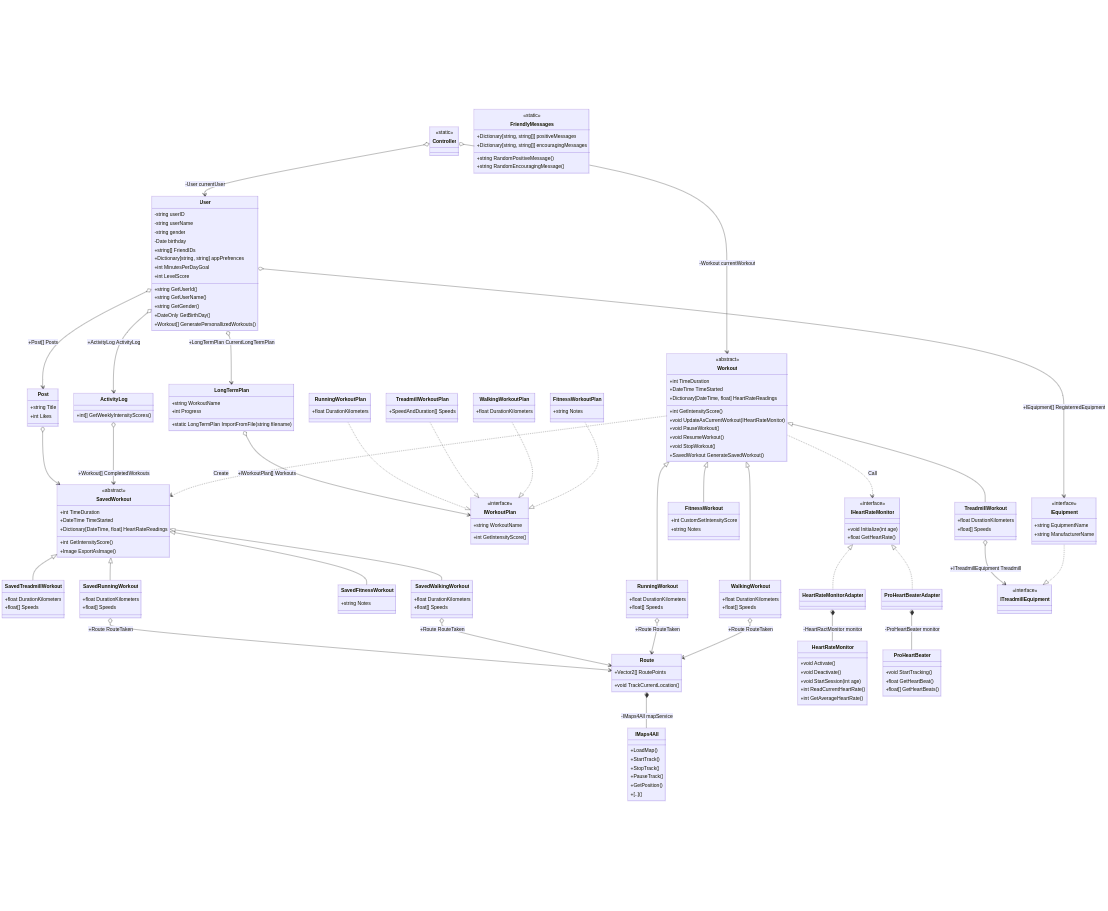
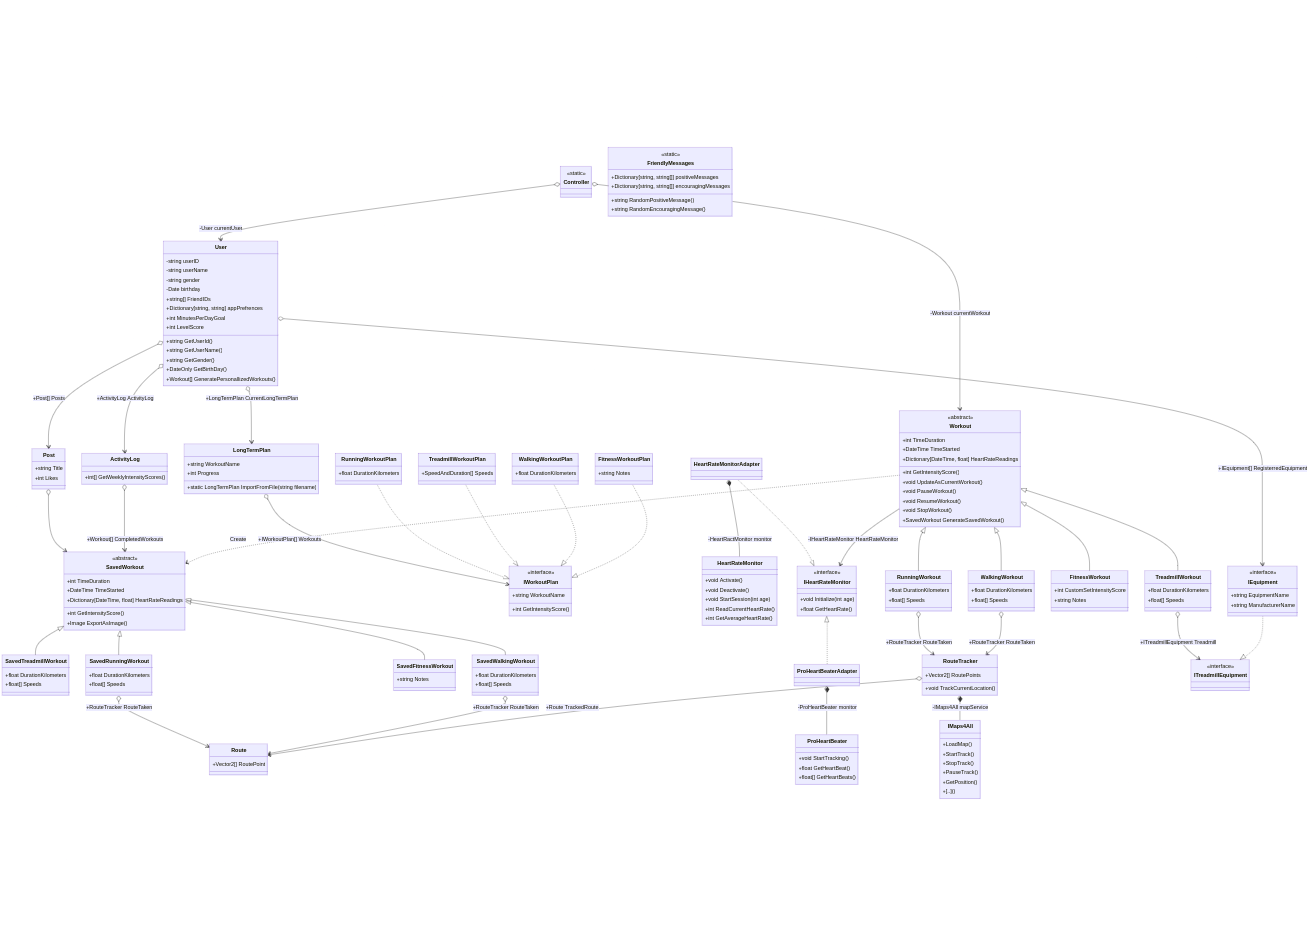
Last update hopefully

diff --git a/classDiagram.md b/classDiagram.md
@@ -61,7 +61,7 @@ SavedWorkout <|-- SavedFitnessWorkout
 
 SavedWorkout <|-- SavedRunningWorkout
 
-SavedRunningWorkout o--> Route : +Route RouteTaken
+SavedRunningWorkout o--> Route: +RouteTracker RouteTaken
 
 class SavedWalkingWorkout{
     +float DurationKilometers
@@ -70,7 +70,7 @@ class SavedWalkingWorkout{
 
 SavedWorkout <|-- SavedWalkingWorkout
 
-SavedWalkingWorkout o--> Route : +Route RouteTaken
+SavedWalkingWorkout o--> Route: +RouteTracker RouteTaken
 
 
 User o--> Post : +Post[] Posts
@@ -129,7 +129,7 @@ class Workout{
     +int TimeDuration
     +DateTime TimeStarted
     +int GetIntensityScore()
-    +void UpdateAsCurrentWorkout(IHeartRateMonitor)
+    +void UpdateAsCurrentWorkout()
     +void PauseWorkout()
     +void ResumeWorkout()
     +void StopWorkout()
@@ -154,6 +154,11 @@ class ProHeartBeater{
     +float[] GetHeartBeats()
 }
 
+class RunningWorkout{
+    +float DurationKilometers
+    +float[] Speeds
+}
+
 class IHeartRateMonitor{
     +void Initialize(int age)
     +float GetHeartRate()
@@ -163,8 +168,9 @@ class IHeartRateMonitor{
 class HeartRateMonitorAdapter{
     
 }
-IHeartRateMonitor <|.. HeartRateMonitorAdapter
+HeartRateMonitorAdapter ..|> IHeartRateMonitor
 HeartRateMonitorAdapter *-- HeartRateMonitor : -HeartRactMonitor monitor
+
 
 class ProHeartBeaterAdapter{
     
@@ -172,36 +178,30 @@ class ProHeartBeaterAdapter{
 IHeartRateMonitor <|.. ProHeartBeaterAdapter
 ProHeartBeaterAdapter *-- ProHeartBeater : -ProHeartBeater monitor
 
-class IMaps4All{
-    +LoadMap()
-    +StartTrack()
-    +StopTrack()
-    +PauseTrack()
-    +GetPosition()
-    +[..]()
-}
 
-Workout ..> IHeartRateMonitor : Call
+Workout --> IHeartRateMonitor : -IHeartRateMonitor HeartRateMonitor
 
 class Route{
+    +Vector2[] RoutePoint
+}
+
+class RouteTracker{
     +Vector2[] RoutePoints
     +void TrackCurrentLocation()
 }
-Route *-- IMaps4All : -IMaps4All mapService
 
-class RunningWorkout{
-    +float DurationKilometers
-    +float[] Speeds
-}
+RouteTracker o--> Route : +Route TrackedRoute
+
+
 Workout <|-- RunningWorkout 
-RunningWorkout o--> Route : +Route RouteTaken
+RunningWorkout o--> RouteTracker : +RouteTracker RouteTaken
 
 class WalkingWorkout{
     +float DurationKilometers
     +float[] Speeds
 }
 Workout <|-- WalkingWorkout 
-WalkingWorkout o--> Route : +Route RouteTaken
+WalkingWorkout o--> RouteTracker : +RouteTracker RouteTaken
 
 class FitnessWorkout{
     +int CustomSetIntensityScore
@@ -229,6 +229,16 @@ Workout <|-- TreadmillWorkout
 TreadmillWorkout o--> ITreadmillEquipment : +ITreadmillEquipment Treadmill
 User o--> IEquipment : +IEquipment[] RegisterredEquipment
 IEquipment ..|> ITreadmillEquipment
+
+RouteTracker *-- IMaps4All : -IMaps4All mapService
+class IMaps4All{
+    +LoadMap()
+    +StartTrack()
+    +StopTrack()
+    +PauseTrack()
+    +GetPosition()
+    +[..]()
+}
 
 ```
 ## LevelScore
